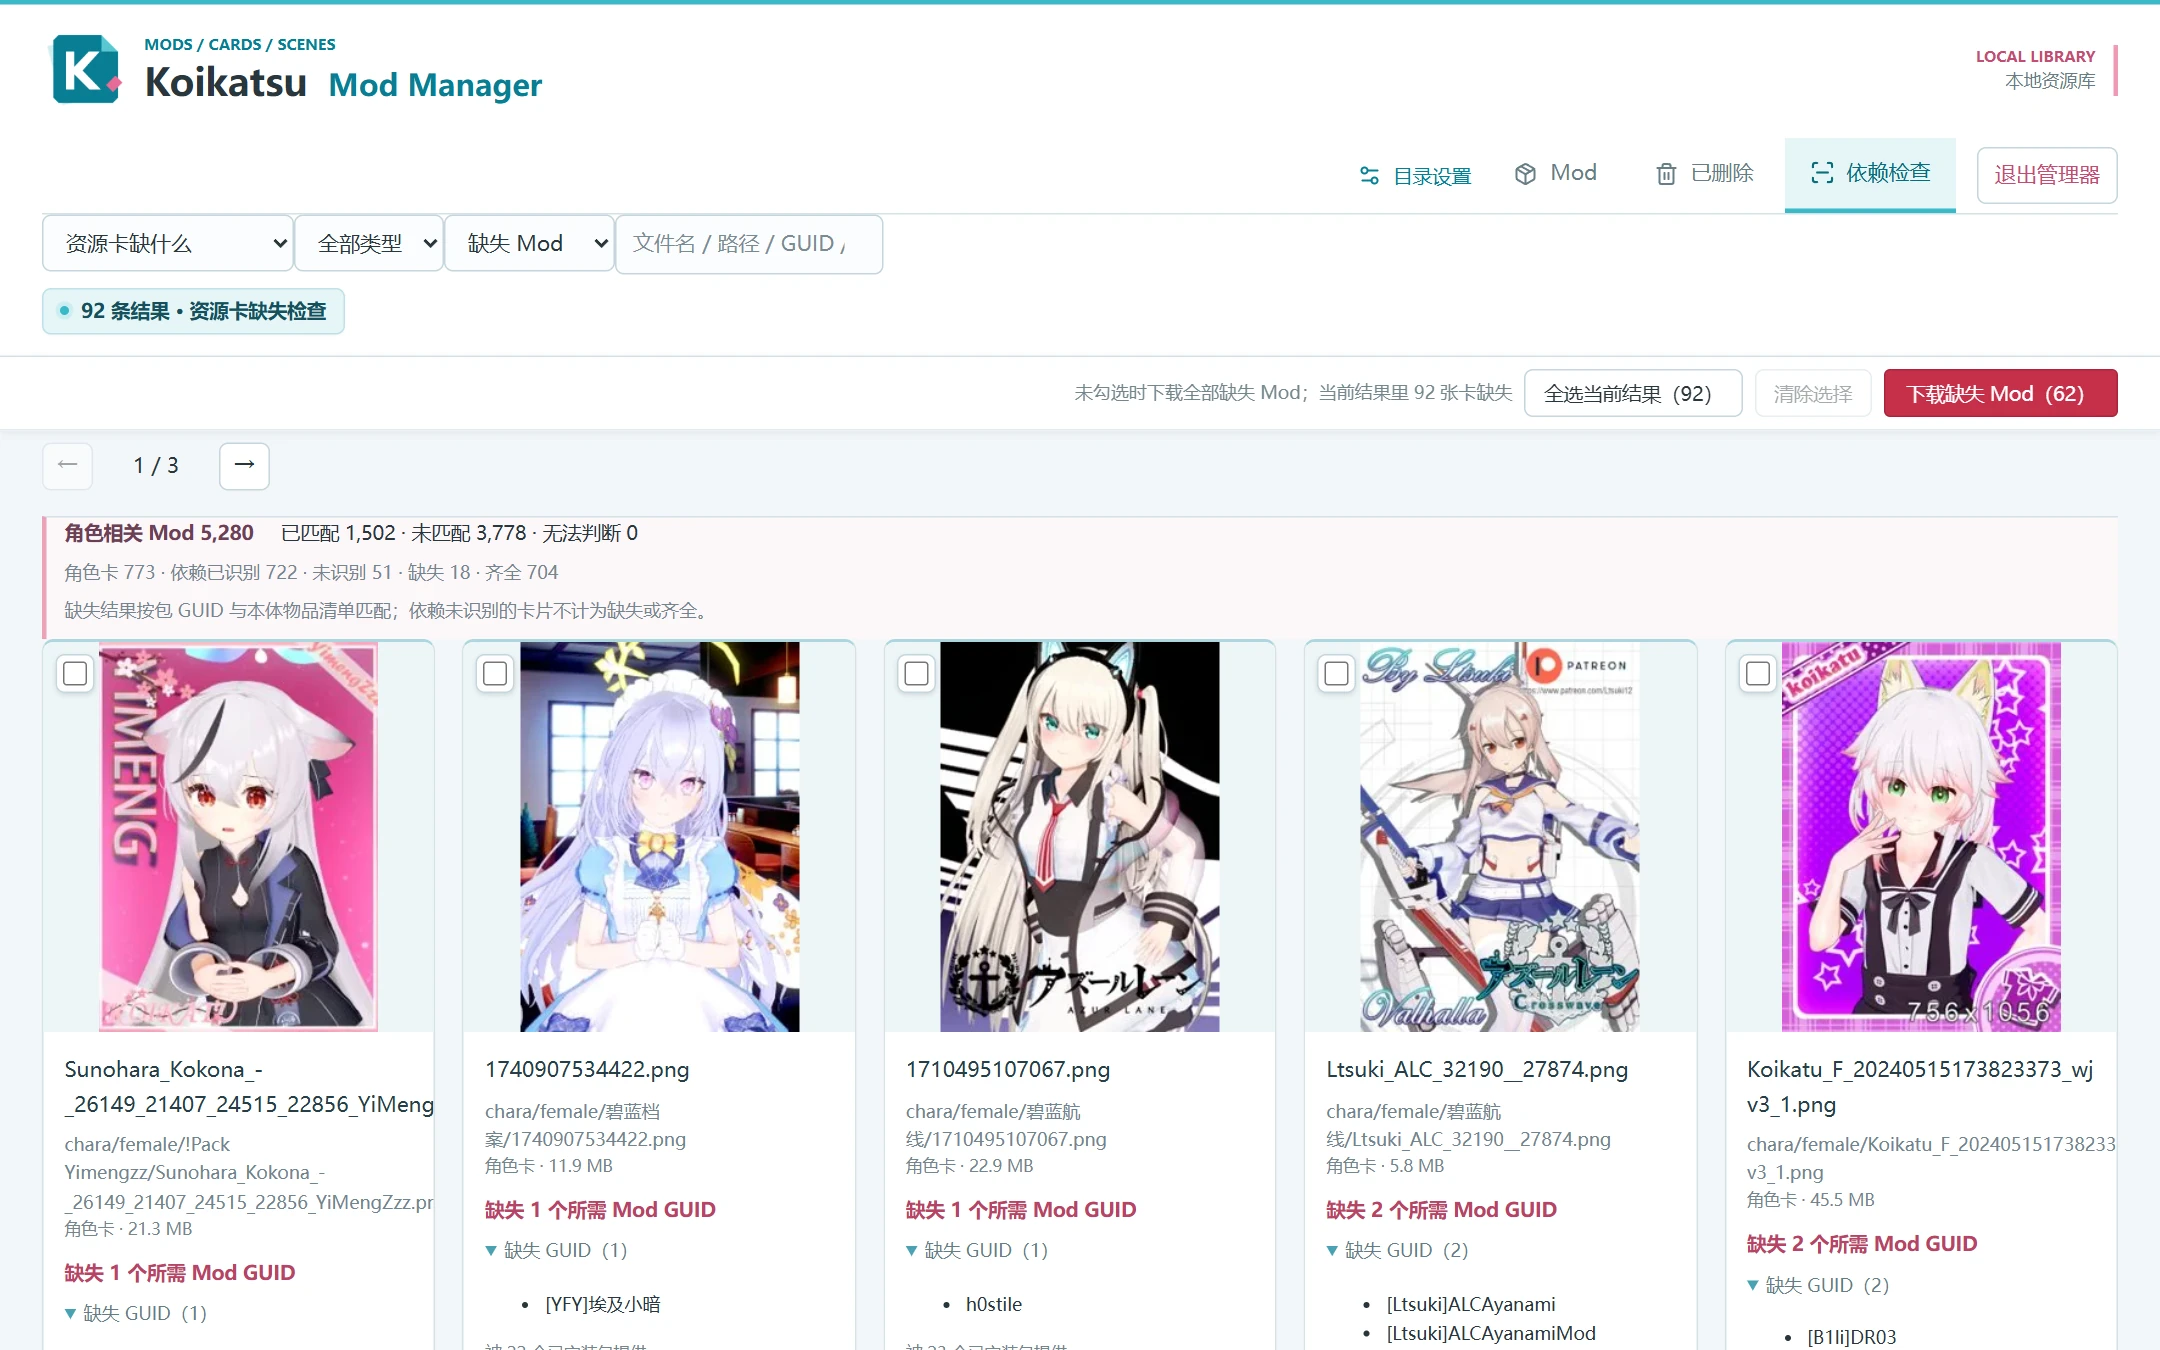
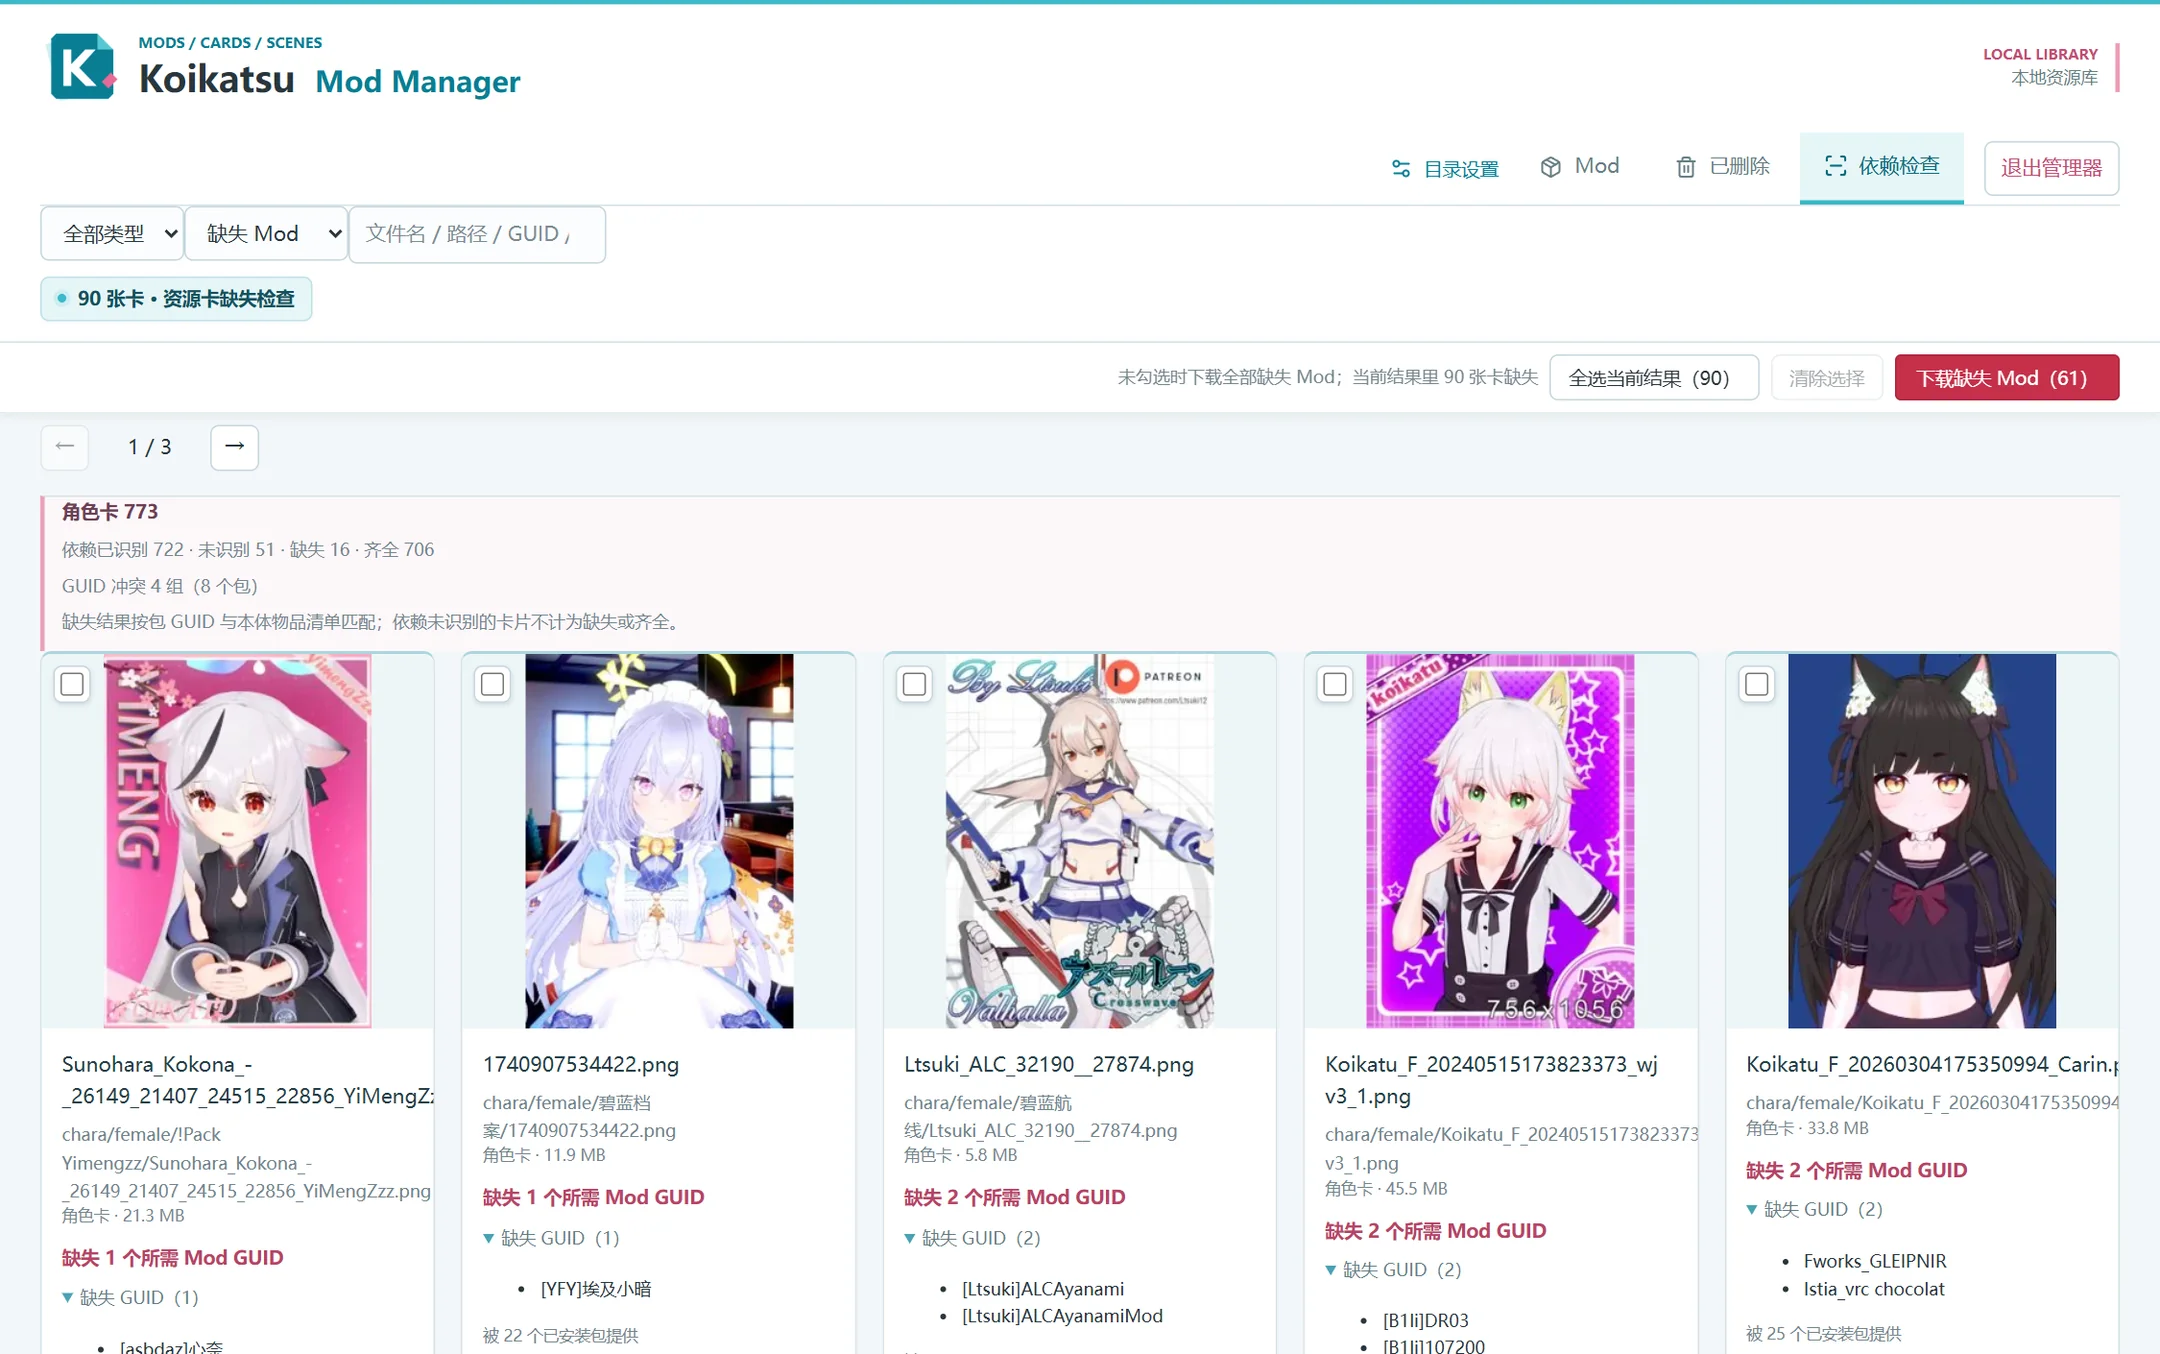
恢复 Mod 页的「卡片引用」筛选，依赖检查只答「卡缺什么」
「哪些包没被任何卡片引用」要在停用包时看，入口就该在 Mod 列表上；
依赖检查页那份是同一个问题的第二份实现，翻页、筛选都得再学一遍。
所以删掉依赖检查的「哪些 Mod 没被引用」模式与列表，Mod 页的 facet 留下。

- 依赖检查回到单一列表：类型、状态、搜索三个筛选，摘要只报卡片覆盖。
- Mod 页「卡片引用」筛选与卡片上的引用数标注恢复；冲突红条仍在筛选之前，
  默认视图照样能看到。
- 测试跟着分工：外壳测试断言两个 facet 并验证筛选真的收窄网格，
  打包测试断言 usage 存在、modRow 与「哪些 Mod 没被引用」不再发布。
- 依赖检查截图重拍（原图里还有那个已删除的模式下拉和「角色相关 Mod」行）。

diff --git a/plugin-deps.js b/plugin-deps.js
@@ -5,10 +5,10 @@
  * leaving it cannot disturb where the user was.
  *
  * One question only: which cards still miss packages, and how to fetch them.
- * The other question this view used to answer -- which installed packages no
- * card refers to -- belongs to housekeeping, not to a broken card, and reading
- * a 7 000-row package list to find it made the page slower and noisier than
- * the job it was opened for.
+ * The other question this plugin answers -- which installed packages no card
+ * refers to -- belongs to housekeeping rather than to a broken card, so it is
+ * a facet on the Mod grid where packages are actually disabled, not a second
+ * list here.
  *
  * This is also the only place that needs the card records themselves, so they
  * are fetched on first use instead of being shipped with every page load.
@@ -553,6 +553,66 @@
     }
   });
 
+  /* The Mod grid answers a question the dependency view no longer asks: not
+   * "which card is missing what" but "does anything reference this package at
+   * all". That is housekeeping, and the grid is where a package is actually
+   * disabled, so the question lives there and only there. A package is safe to
+   * drop only when no character card, no outfit card and no scene names it, so
+   * the facet counts all three. */
+  const KINDS = ['角色卡', '服装卡', '场景'];
+
+  function references(verdict) {
+    const cards = (verdict.cards || []).length;
+    const outfits = (verdict.outfits || []).length;
+    const scenes = (verdict.scenes || []).length;
+    return {cards, outfits, scenes, total: cards + outfits + scenes};
+  }
+
+  function libraryHasCards() {
+    const raw = KK.deps.raw;
+    if (!raw) return false;
+    if (raw.coverageByKind) {
+      return KINDS.some(kind => {
+        const value = raw.coverageByKind[kind];
+        return Boolean(value && value.parsed);
+      });
+    }
+    return Boolean(raw.coverage && raw.coverage.parsed);
+  }
+
+  function cardState(record) {
+    const verdict = KK.deps.mod(record.path);
+    if (!verdict) return 'unknown';
+    if (references(verdict).total) return 'matched';
+    // No GUID, or nothing parsed in the library, means no reference is merely
+    // an absence of evidence rather than evidence of absence.
+    return record.guid && libraryHasCards() ? 'unmatched' : 'unknown';
+  }
+
+  /* "Cannot tell" is a real verdict -- a package without a GUID, or one the
+   * index has not covered yet -- but on a healthy catalog nothing lands in it,
+   * and an option that can only ever return nothing is noise in the dropdown.
+   * It therefore appears only while something is actually in that state. */
+  function unknownReferences() {
+    let total = 0;
+    for (const record of data.catalog) {
+      if (cardState(record) === 'unknown') total += 1;
+    }
+    return total;
+  }
+
+  KK.registerModFacet({
+    id: 'usage',
+    label: '卡片引用',
+    options() {
+      const choices = [['', '全部引用状态'], ['unmatched', '未被任何卡片引用'],
+        ['matched', '已被卡片引用']];
+      if (unknownReferences()) choices.push(['unknown', '无法判断']);
+      return choices;
+    },
+    match(record, value) { return cardState(record) === value; }
+  });
+
   KK.onModCard((record, card, meta) => {
     const verdict = KK.deps.mod(record.path);
     /* A GUID collision is a fact about the package, not about any filter, and
@@ -562,5 +622,24 @@
     if (sharesGuid(record).length || (verdict && verdict.duplicateGuid)) {
       meta.prepend(conflictBanner(record));
     }
+    /* The reference count is only worth the pixels while the filter is asking
+     * about references; on the default view it is a line of text above a cover
+     * nobody has to read to use the grid. */
+    if (!KK.facetValue('usage')) return;
+    if (!verdict) return;
+    const state = cardState(record);
+    const refs = references(verdict);
+    const label = {
+      unmatched: '未被任何卡片引用',
+      matched: `被 ${refs.total} 张卡片引用`,
+      unknown: record.guid ? '资源卡索引不足，无法判断' : '包内未声明 GUID，无法判断'
+    }[state];
+    if (label) {
+      meta.append(el('div', label, 'detection-label ' +
+        (state === 'matched' ? 'installed' : 'duplicate')));
+    }
+    const breakdown = [['角色卡', refs.cards], ['服装卡', refs.outfits], ['场景', refs.scenes]]
+      .filter(([, count]) => count).map(([kind, count]) => `${kind} ${count}`);
+    if (breakdown.length) meta.append(el('div', breakdown.join(' · '), 'notice'));
   });
 })();

diff --git a/maintenance/Test-AppShell.js b/maintenance/Test-AppShell.js
@@ -22,8 +22,8 @@ assert.equal(KK.data.catalog.length, 41);
 const tabs = $('tabs').children.filter(node => node.tagName === 'BUTTON');
 assert.equal(tabs.length, 3, 'one tab per registered view');
 assert.deepEqual(tabs.map(tab => tab.textContent), ['Mod', '已删除', '依赖检查']);
-assert.equal(KK.facets.length, 1,
-  'the only plugin question left is the GUID collision one');
+assert.equal(KK.facets.length, 2,
+  'the plugin answers two questions on the Mod grid: card references and collisions');
 
 /* --- Mod grid ----------------------------------------------------------- */
 
@@ -34,12 +34,13 @@ assert.match($('status').textContent, /41 个包/);
 // rather than in the gap between the header and the sticky bar.
 assert.equal($('status').parentElement.tagName, 'HEADER',
   'the result line belongs to the search area');
+const facetSelect = $('modPluginFacets').querySelector('[data-facet="usage"]');
+assert.ok(facetSelect, 'the card-reference facet is rendered into the Mod toolbar');
+assert.equal(facetSelect.children.length, 4,
+  'pack040 has no GUID, so "cannot tell" applies');
 /* No two packs in this fixture share a GUID, so the collision facet has no
- * options to offer and must not put an empty dropdown in the toolbar. It is
- * also the only plugin facet left: "which packages no card refers to" was
- * dropped -- housekeeping, not a broken card, and the dependency view had a
- * second, slower copy of the same question. */
-assert.equal($('modPluginFacets').children.length, 0,
+ * options to offer and must not put an empty dropdown in the toolbar. */
+assert.equal($('modPluginFacets').children.length, 1,
   'a facet with nothing to offer is not rendered at all');
 
 /* The bars that act on a long list stick to the top of the window while it
@@ -72,6 +73,30 @@ assert.ok(firstCard.querySelector('.delete'), 'disable button is present');
 const plain = $('grid').children.find(card => card.textContent.includes('pack000.zipmod'));
 assert.ok(!plain.querySelector('.images'), 'a pack without its own image keeps the placeholder');
 assert.match(plain.textContent, /未声明缩略图/, 'the placeholder says why it is empty');
+
+/* A facet value must actually filter the grid, and "referenced" must mean any
+ * kind of card: a scene or an outfit is as much a reason to keep a package as a
+ * character card is. */
+const listedNames = () => $('grid').children.map(card => {
+  const name = card.querySelector('.name');
+  return name ? name.textContent : '';
+});
+
+facetSelect.value = 'unmatched';
+facetSelect.onchange();
+assert.equal($('grid').children.length, 36, 'unmatched page is still full');
+const orphanNames = listedNames();
+assert.ok(!orphanNames.includes('Pack 0'), 'a pack used by a character card stays hidden');
+assert.ok(!orphanNames.includes('Pack 3'), 'a pack used by a scene stays hidden');
+assert.ok(!orphanNames.includes('Pack 4'), 'a pack used by an outfit card stays hidden');
+
+facetSelect.value = 'matched';
+facetSelect.onchange();
+assert.deepEqual(listedNames().sort(), ['Pack 0', 'Pack 3', 'Pack 4'],
+  'character cards, outfit cards and scenes all count as a reference');
+facetSelect.value = '';
+facetSelect.onchange();
+assert.equal($('grid').children.length, 36, 'clearing the facet restores the full list');
 
 /* --- Dependency view ---------------------------------------------------- */
 

diff --git a/maintenance/Test-DuplicateGuid.js b/maintenance/Test-DuplicateGuid.js
@@ -34,10 +34,6 @@ const app = createApp({catalog, library: Fixture.library,
 const KK = app.load(SCRIPTS);
 const $ = id => app.byId.get(id);
 const cardFor = path => $('grid').children.find(card => card.dataset.path === path);
-const rowFor = path => $('dependencyList').children.find(row => {
-  const shown = row.querySelector('.path');
-  return shown && shown.textContent === path;
-});
 
 KK.openView('mods');
 

diff --git a/maintenance/Test-PackagedExe.py b/maintenance/Test-PackagedExe.py
@@ -316,14 +316,17 @@ def main():
             # The card coverage and the matching note live in the header, not in
             # the download answer.
             assert "依赖已识别" in report and "本体物品清单" in report
-            # "Which packages no card refers to" is housekeeping, not a broken
-            # card: both the dependency view's second mode and the Mod grid's
-            # card-reference facet were dropped, so neither string ships.
+            # "Which packages no card refers to" belongs to the Mod grid, where a
+            # package is actually disabled. The dependency view answers only
+            # "which card is missing what", so its second mode is gone while the
+            # card-reference facet still ships.
             assert "哪些 Mod 没被引用" not in report
-            assert "unknownMods()" not in report and "unknownReferences()" not in report
-            assert 'id: \'usage\'' not in report
-            # The collision facet is the only plugin question left, and it is
-            # still offered dynamically.
+            assert "unknownMods()" not in report
+            assert "function modRow" not in report
+            assert "id: 'usage'" in report and "卡片引用" in report
+            assert "unknownReferences()" in report
+            # The collision facet sits next to it, and is still offered
+            # dynamically -- an option nothing can be in is not drawn.
             assert "id: 'conflict'" in report
             # The render control is the one red bulk action on the grid.
             assert b"bulk-render" in get("/view-mods.js")
